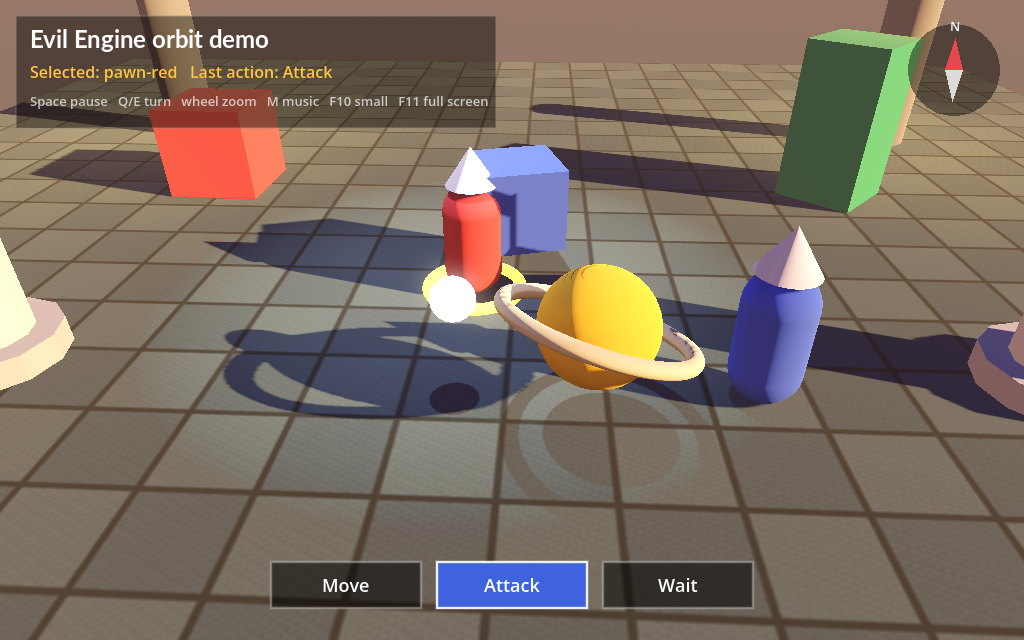
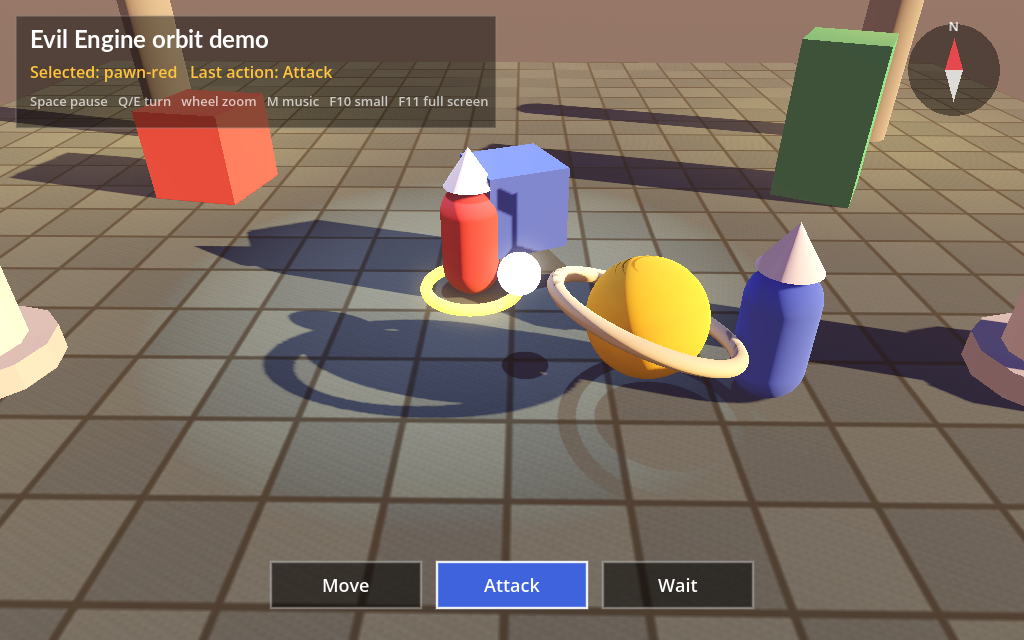
R23: fresh eyes again, all 10 findings fixed: Scenes note, Camera.Frame, one-build style errors with lines

Changed region(s): [[0.0, 0.0, 1.0, 1.0], [0.7812, 0.0312, 0.8125, 0.0938], [0.4688, 0.9375, 0.5, 1.0]]

diff --git a/tests/Evil.Engine.GodotTests/Cameras/FramedBoundsAreFullyInView.cs b/tests/Evil.Engine.GodotTests/Cameras/FramedBoundsAreFullyInView.cs
@@ -1,0 +1,45 @@
+using Evil.Engine.Mathematics;
+
+namespace Evil.Engine.GodotTests.Cameras;
+
+internal sealed class FramedBoundsAreFullyInView : Property<FramingProbe>
+{
+    private Stage? _stage;
+
+    public override void Execute()
+    {
+        using Stage stage = Stage.Open();
+        _stage = stage;
+        base.Execute();
+    }
+
+    protected override FramingProbe Generate(Random random)
+    {
+        Vector3 size = new Vector3(Gen.Number(random, 0.2f, 30f), Gen.Number(random, 0f, 10f), Gen.Number(random, 0.2f, 30f));
+        Bounds3 bounds = Bounds3.FromCenter(Gen.Point3(random, 20f), size);
+        return new FramingProbe(bounds, Gen.Number(random, 5f, 85f), Gen.Number(random, -180f, 180f), Gen.Number(random, 30f, 100f), Gen.Chance(random, 0.25));
+    }
+
+    protected override void Verify(FramingProbe sample)
+    {
+        Camera camera = _stage!.AddCamera(new Vector3(0f, 0f, 10f));
+        camera.FieldOfView = sample.FieldOfView;
+        camera.Projection = sample.Orthographic ? CameraProjection.Orthographic : CameraProjection.Perspective;
+        camera.Frame(sample.Bounds, sample.Pitch, sample.Yaw);
+        Check.True(camera.CanSee(sample.Bounds.Center), "the middle is in view");
+        foreach (Vector3 corner in Corners(sample.Bounds))
+        {
+            Check.True(camera.CanSee(corner), $"corner {corner} is in view");
+        }
+
+        camera.Destroy();
+    }
+
+    private static Vector3[] Corners(Bounds3 box) =>
+    [
+        new Vector3(box.Min.X, box.Min.Y, box.Min.Z), new Vector3(box.Max.X, box.Min.Y, box.Min.Z),
+        new Vector3(box.Min.X, box.Max.Y, box.Min.Z), new Vector3(box.Max.X, box.Max.Y, box.Min.Z),
+        new Vector3(box.Min.X, box.Min.Y, box.Max.Z), new Vector3(box.Max.X, box.Min.Y, box.Max.Z),
+        new Vector3(box.Min.X, box.Max.Y, box.Max.Z), new Vector3(box.Max.X, box.Max.Y, box.Max.Z),
+    ];
+}

diff --git a/src/04_Cameras/Evil.Engine.Cameras/Camera.cs b/src/04_Cameras/Evil.Engine.Cameras/Camera.cs
@@ -9,6 +9,8 @@ namespace Evil.Engine.Cameras;
 
 public class Camera : WorldObject
 {
+    private const float BreathingRoom = 1.05f;
+
     public Camera()
         : base(new Camera3D())
     {
@@ -77,7 +79,39 @@ public class Camera : WorldObject
         return !Lens.IsPositionBehind(point) && Lens.IsPositionInFrustum(point);
     }
 
+    public void Frame(Bounds3 bounds, float pitchDegrees = 50f, float yawDegrees = 0f)
+    {
+        RequireInWorld(nameof(Frame));
+        float radius = MathF.Max(bounds.Size.Length() / 2f, 0.01f) * BreathingRoom;
+        Pose eye = Orbit.PoseFor(bounds.Center, yawDegrees, pitchDegrees, DistanceToFit(radius));
+        Position = Parent is null ? eye.Position : Parent.ToLocal(eye.Position);
+        LookAt(bounds.Center);
+        Far = MathF.Max(Far, Vector3.Distance(eye.Position, bounds.Center) + radius * 2f);
+        if (Projection == CameraProjection.Orthographic)
+        {
+            OrthographicSize = radius * 2f * MathF.Max(1f, 1f / ScreenAspect());
+        }
+    }
+
     internal void MakeCurrent() => Lens.Current = true;
+
+    private float DistanceToFit(float radius)
+    {
+        if (Projection == CameraProjection.Orthographic)
+        {
+            return radius + Near + 1f;
+        }
+
+        float verticalHalf = Angle.ToRadians(FieldOfView) / 2f;
+        float horizontalHalf = MathF.Atan(MathF.Tan(verticalHalf) * ScreenAspect());
+        return radius / MathF.Sin(MathF.Min(verticalHalf, horizontalHalf)) + Near;
+    }
+
+    private float ScreenAspect()
+    {
+        Godot.Vector2 screen = Lens.GetViewport().GetVisibleRect().Size;
+        return screen.X / MathF.Max(1f, screen.Y);
+    }
 
     private void RequireInWorld(string call)
     {

diff --git a/tests/Evil.Engine.Tests/Mathematics/Grids/EveryCellSitsInsideTheBoardBounds.cs b/tests/Evil.Engine.Tests/Mathematics/Grids/EveryCellSitsInsideTheBoardBounds.cs
@@ -1,0 +1,20 @@
+using Evil.Engine.Mathematics;
+
+namespace Evil.Engine.Tests.Mathematics.Grids;
+
+internal sealed class EveryCellSitsInsideTheBoardBounds : Property<GridCell>
+{
+    protected override GridCell Generate(Random random)
+    {
+        Grid grid = RandomGrids.Create(random);
+        return new GridCell(grid, RandomGrids.CellOf(random, grid));
+    }
+
+    protected override void Verify(GridCell sample)
+    {
+        Bounds3 bounds = sample.Grid.Bounds;
+        Check.True(bounds.Contains(sample.Grid.CenterOf(sample.Cell)), $"{sample.Cell} is inside {bounds}");
+        Check.Near(sample.Grid.Columns * sample.Grid.CellSize, bounds.Size.X, "as wide as the columns", 1e-3f);
+        Check.Near(sample.Grid.Rows * sample.Grid.CellSize, bounds.Size.Z, "as deep as the rows", 1e-3f);
+    }
+}

diff --git a/src/99_Engine/Evil.Engine/Hosting/GameMain.cs b/src/99_Engine/Evil.Engine/Hosting/GameMain.cs
@@ -52,9 +52,9 @@ public abstract partial class GameMain : Node, IOverlayPainter
         _game = new GameContext(worlds, _keyboard, _mouse, new Display(_options.Window, GetTree().Root), new ContentLibrary(_options.ContentRoot), new AudioMixer(audio));
         _game.ScreenSize = ScreenSize();
         RenderingServer.FramePostDraw += OnFrameDrawn;
+        AnnounceStart(_options);
         _game.Scenes.Push(_options.StartScene);
         _game.Scenes.ApplyChanges();
-        AnnounceStart(_options);
     }
 
     private static void AnnounceStart(GameOptions options)

diff --git a/src/01_Mathematics/Evil.Engine.Mathematics/Grids/Grid.cs b/src/01_Mathematics/Evil.Engine.Mathematics/Grids/Grid.cs
@@ -33,6 +33,8 @@ public sealed class Grid
 
     public GridMoves Moves { get; }
 
+    public Bounds3 Bounds => new Bounds3(Corner, Corner + new Vector3(Columns * CellSize, 0f, Rows * CellSize));
+
     public override string ToString() => $"{Columns}x{Rows} grid of {CellSize} cells at {Corner}, {Moves} moves";
 
     public static Grid Centered(int columns, int rows, float cellSize, GridMoves moves = GridMoves.Four) =>

diff --git a/tests/Evil.Engine.GodotTests/Cameras/FramingProbe.cs b/tests/Evil.Engine.GodotTests/Cameras/FramingProbe.cs
@@ -1,0 +1,5 @@
+using Evil.Engine.Mathematics;
+
+namespace Evil.Engine.GodotTests.Cameras;
+
+internal sealed record FramingProbe(Bounds3 Bounds, float Pitch, float Yaw, float FieldOfView, bool Orthographic);

diff --git a/templates/Evil.Engine.Templates/evil-game/GlobalUsings.cs b/templates/Evil.Engine.Templates/evil-game/GlobalUsings.cs
@@ -1,5 +1,5 @@
+global using System;
 global using System.Collections.Generic;
-global using System.Linq;
 global using System.Numerics;
 global using Evil.Engine.Audio;
 global using Evil.Engine.Cameras;

diff --git a/documents/API/Scenes.md b/documents/API/Scenes.md
@@ -1,0 +1,72 @@
+---
+tags: [api, scenes, game]
+aliases: [Scene, GameContext, Game, Scene stack]
+---
+
+# Scenes
+
+Library `Evil.Engine` (`src/99_Engine`, folders `Scenes/` and `Hosting/`). A game is a stack of scenes. Each scene
+owns its own `World`, `Camera` and `Atmosphere`, and reaches the rest of the engine through `Game`.
+
+## A scene's life
+
+| Override | Called |
+|---|---|
+| `Enter()` | once, when the scene comes onto the stack: build the world here |
+| `Update(GameTime time)` | every frame while it is the top scene; `time.DeltaSeconds` is the frame, `TotalSeconds` the game so far |
+| `Draw(Canvas canvas)` | every frame after the updates: the 2D overlay (see [[Screen]]) |
+| `Pause()`, `Resume()` | a full scene was pushed on top of it, and popped off again |
+| `Exit()` | once, when it leaves the stack; its world is freed after this |
+
+`IsOverlay => true` makes a scene a layer on top: the scene below keeps being shown and its camera stays on screen
+(a menu over the battle). A full scene hides the one below and pauses it.
+
+## What a scene can use
+
+| Member | What |
+|---|---|
+| `Game` | the game: see the next table |
+| `World` | the scene's own `WorldObject`: `World.Add(...)` puts things in it (see [[World]]) |
+| `Camera` | the scene's camera, already in its world and on screen (see [[Cameras]]) |
+| `Atmosphere` | the scene's sky, ambient light and fog (see [[Lighting]]) |
+| `Pick(screenPoint)` | the nearest world object under a pixel (see [[Input]]) |
+
+These are `protected`: they belong to the scene. They throw a clear error when used before `Enter` or after
+`Exit`, because then the scene has no world.
+
+## `Game`: the game context
+
+| Member | What |
+|---|---|
+| `Keyboard`, `Mouse` | input, read in `Update` (see [[Input]]) |
+| `Motion` | moves, hops and turns, queued per object (see [[Motion]]) |
+| `Audio` | sounds, music and volume groups (see [[Audio]]) |
+| `Content` | models, textures, fonts and sounds from the content folder (see [[Content]]) |
+| `Display` | window title, size, full screen (see [[Screen]]) |
+| `Scenes` | the stack: `Push(scene)`, `Pop()`, `Switch(scene)`, `Current`; changes happen after the frame's updates |
+| `Time`, `ScreenSize` | this frame's time and the screen size in pixels |
+| `Exit()` | quit after this frame; `CaptureFrame(path)` saves the next frame as a picture |
+
+## Helper classes
+
+Split a scene into classes with one job each, and hand them what they need when the scene builds them in
+`Enter`: a game piece gets `World`, a rules class gets `Game.Motion`, a click handler gets `Camera` and `World`.
+
+```csharp
+protected override void Enter()
+{
+    _board = new BoardView(World, Grid.Centered(8, 8, 1f));
+    _turns = new TurnOrder(Game.Motion);
+    _clicks = new ClickReader(Camera, World);
+    Camera.Frame(_board.Grid.Bounds, 55f);
+}
+```
+
+A helper that picks without the scene's `Pick` uses `Picker.Pick(camera, world, screenPoint)`, which is what `Pick`
+calls. The demo is split this way: see "Read the code" in [[Run the Sample]].
+
+## Logging
+
+`Console.WriteLine` is the log: on the server it lands in the file `godot.sh`'s output goes to, on a desktop in
+Godot's output panel. The engine writes one line itself, before the first scene enters:
+`Evil Engine 0.3.0: "My Game" 1280x720, first scene MapScene, content res://content`.

diff --git a/documents/Getting Started/Make a Game.md b/documents/Getting Started/Make a Game.md
@@ -22,7 +22,9 @@ Godot 4.7.2 .NET. One command makes it.
    dotnet new evil-game -n Skirmish --title "Tile Skirmish"
    ```
 
-   `--feed` points at another package folder or NuGet source if the engine's packages live elsewhere.
+   `--feed` points at another package folder or NuGet source if the engine's packages live elsewhere. With a folder
+   feed, add `--no-update-check`: there is no online version to compare with. To call the first scene something else,
+   rename `MapScene.cs` and its class, and the `new MapScene()` in `Main.cs`.
 
 3. **Run it.** On a desktop, open the folder in Godot 4.7.2 (.NET) and press play. On the server, with the engine
    repo's script (a game folder has no `scripts/`):
@@ -34,9 +36,9 @@ Godot 4.7.2 .NET. One command makes it.
    bash /mnt/hdd/projects/MyGameFrameWork/scripts/godot.sh .
    ```
 
-   The first line the game prints says it started, for example
+   The first line the game prints says it started, before the first scene enters, for example
    `Evil Engine 0.3.0: "Tile Skirmish" 1280x720, first scene MapScene, content res://content`. No line means the
-   engine never got to its first scene. The import is needed once, and again after new content. To take screenshots
+   engine never started. The import is needed once, and again after new content. To take screenshots
    or click with `xdotool`, see "Driving a game on the server" in [[Testing]].
 
 **Done when** a window shows a turning blue box on a green floor with the title in the corner, and Escape closes
@@ -50,9 +52,9 @@ it.
 |---|---|
 | `Main.cs` | the game's one Godot line: window, content folder, first scene |
 | `MapScene.cs` | the first scene: a floor, a turning box, the title, Escape quits |
-| `GlobalUsings.cs` | every Evil Engine namespace, so no file needs its own usings |
+| `GlobalUsings.cs` | `System`, collections, `System.Numerics` and every Evil Engine namespace, so no file needs its own usings |
 | `<name>.csproj` | Godot's SDK, the `Evil.Engine` package, warnings as errors, the code style in the build |
-| `CodeStyle.targets` | stops the build on `new()` and on `{ Name = ... }` blocks, and says what to write instead |
+| `CodeStyle.targets` | stops the build on `new()` (EVIL001) and on `{ Name = ... }` blocks (EVIL002), with file, line and what to write instead, all in one build |
 | `.editorconfig` | stops the build on `var` |
 | `project.godot`, `main.tscn`, `nuget.config`, `.gitignore` | the Godot project, its one scene, where the packages come from, what git skips |
 
@@ -127,7 +129,8 @@ off ([[Decisions]] 24).
 > [!important] The code style is part of the game
 > A game made this way builds only in the project's code style: real types instead of `var` (the compiler's
 > IDE0008), and objects built with their constructor and then plain statements: no `new()` and no initializer
-> blocks (`CodeStyle.targets`). The error says which file and what to write instead.
+> blocks (`CodeStyle.targets`). One build lists every problem with its file and line and what to write instead.
+> The rest of the house style is in [[Clean Code]].
 
 `scripts/make-a-game-check.sh` runs exactly these steps after every pack (see [[Testing]]), and `check.sh` fails if
 this note stops showing the template's files as they are.

diff --git a/documents/Usability.md b/documents/Usability.md
@@ -42,3 +42,31 @@ Fixed in R21: `SelfOrAncestor<T>()`.
 
 The three changes it said would have helped most: document capture and scripted input on the server (1, 2, 3, 12),
 ship the style checks with the package (5), and make Make a Game complete plus a board recipe (4, 6 to 10).
+
+## R23: fresh eyes again (2026-11-09)
+
+A new agent, the same task, the docs and packages after rounds 14 to 22 (a trial pack of `main`, the earlier
+findings hidden from it). It used `dotnet new evil-game`, `Grid.Path`, `Grid.CellAt` with `Camera.PointOnGround`,
+and `SelfOrAncestor<Unit>()`, and said those "worked without friction". The game meets every bullet.
+
+| | R13 | R23 |
+|---|---|---|
+| findings | 13 (3 major, 9 minor, 1 own mistake) | 10 (0 major, 10 minor) |
+| blockers | 0 | 0 |
+| builds (failed) | 5 (1) | 7 (1) |
+| board code written by hand | about 100 lines: cells, cell to world, tiles, a path search | `Board.cs` 69 lines, tiles only; paths from `Grid` |
+
+![[r23-fresh-eyes.png]]
+
+| # | Finding | Severity | Fix | Status |
+|---|---|---|---|---|
+| 1 | The template's usings had no `System`, so `Console` did not build | minor | `global using System;`; `System.Linq` taken out (the house style avoids LINQ) | fixed in R23 |
+| 2 | `Unshaded` still went through tone mapping, so tiles came out lighter | minor | [[World]] and [[Lighting]] say so and point to `ToneMapping.Linear` | fixed in R23 |
+| 3 | No page for `Scene` and `Game`: the life of a scene, `GameContext`, helper classes, `Picker` | minor | new note [[Scenes]] | fixed in R23 |
+| 4 | Which style rules a game gets was unclear; the long-method limit was not given | minor | [[Clean Code]]: "In a game" and the 30-line rule | fixed in R23 |
+| 5 | The template's style errors came one per build and without a line | minor | `CodeStyle.targets` is a small task now: every problem with file and line in one build, next to the compiler's | fixed in R23 |
+| 6 | No recipe for finding things on screen when driving a game; logging not documented | minor | [[Testing]] (print `WorldToScreen` positions, read them from the log) and [[Scenes]] (logging) | fixed in R23 |
+| 7 | "The first line the game prints" was not first: the scene's own lines came before it | minor | the engine prints it before the first scene enters | fixed in R23 |
+| 8 | Whether a new shape shares its material was a guess | minor | [[World]]: each shape gets its own unless you share one | fixed in R23 |
+| 9 | Three tries to frame the board; the default view angle was not given | minor | `Camera.Frame(bounds, pitch, yaw)` and `Grid.Bounds`, proven by a property test; defaults in [[Cameras]] | fixed in R23 |
+| 10 | `dotnet new` warned about an update check; renaming the first scene was not described | minor | [[Make a Game]]: `--no-update-check` for a folder feed, and how to rename `MapScene` | fixed in R23 |

diff --git a/documents/LOOP.md b/documents/LOOP.md
@@ -113,7 +113,7 @@ types, and repeated code in Keyboard/Mouse, ContentLibrary's loaders, GodotKeys'
   messages that say what to do. Each change with a test.
 - [x] **R22 A new game in one command**: `dotnet new evil-game` template package in the feed that writes the Make a
   Game files plus the code style checks (`.editorconfig`, `EnforceCodeStyleInBuild`); make-a-game-check builds from it.
-- [ ] **R23 Fresh eyes again**: a new agent, same task as R13; compare (stuck N times before, M now) and fix what is
+- [x] **R23 Fresh eyes again**: a new agent, same task as R13; compare (stuck N times before, M now) and fix what is
   left.
 - [ ] **R24 Docs and pack 0.3.0**: API notes and Decisions for every change, `0.3.0` packed, make-a-game-check on the
   feed and checking the new start line.
@@ -310,3 +310,15 @@ types, and repeated code in Keyboard/Mouse, ContentLibrary's loaders, GodotKeys'
   files and check.sh fails when they drift (a planted change was caught). Found: the template engine treats MSBuild
   `Condition` attributes as its own and stripped one, so every new game failed its style check; the file is
   copy-only now. pack.sh died silently on an `ls` exit code under pipefail; fixed. ![[make-a-game.png]]
+- 2026-11-09 01:23 R23: a new Sonnet agent, the same task as R13, a trial pack of `main` (old packages cleared from the
+  NuGet cache, the earlier findings hidden). It used `dotnet new evil-game`, `Grid.Path`, `CellAt` with
+  `PointOnGround` and `SelfOrAncestor<Unit>()` "without friction"; every bullet met. R13: 13 findings, 3 major, about
+  100 lines of hand-made board code. R23: 10 findings, 0 major, the board 69 lines with paths from `Grid`. All 10
+  fixed: `System` in the template's usings (and `System.Linq` out); a new [[Scenes]] note (life of a scene,
+  `GameContext`, helper classes, logging); the truth about `Unshaded` and tone mapping; material ownership and camera
+  defaults written down; a recipe for screen positions in scripted runs; the clean-code rules for games and the
+  30-line limit; the start line printed before the first scene; `CodeStyle.targets` as a small task that lists every
+  problem with file and line in one build (EVIL001, EVIL002, next to the compiler's IDE0008: the Make a Game check
+  plants all three in one file and needs each at its line); `Camera.Frame(bounds, pitch, yaw)` and `Grid.Bounds`,
+  proven by a Godot property test that every corner of 2,000 random boxes is in view (a planted too-close camera
+  fails on case 1). 92 + 113 tests, check.sh, the driven run and make-a-game-check green. ![[r23-fresh-eyes.png]]

diff --git a/documents/Architecture/Clean Code.md b/documents/Architecture/Clean Code.md
@@ -18,6 +18,7 @@ duplicate code; a file needs meaning, not just code here or there, and folders n
 | no delegates handed around | `Func<Random, T> generate, Action<T> check` | an abstract `Property<TCase>` with `Generate` and `Verify` |
 | no duplicate code | the same 8 lines in Keyboard and Mouse | one `ButtonStates<T>` both use |
 | one type per file | `ObjectTweens.cs` with 8 classes | `MoveTween.cs`, `HopTween.cs`, ... in `Tweens/` |
+| short methods | a 48-line game loop | named steps; a method may be 30 lines at most, from its first line to its closing brace |
 | folders with meaning | 25 files side by side in `Evil.Engine.World` | `Objects/`, `Shapes/`, `Materials/`, `Models/` |
 
 What the duplicate check does not count, because it is declaration or data, not copied logic: enum lists, one-line
@@ -37,6 +38,13 @@ call it expects to fail. Every caller hands it a named method, which the lambda 
 Explicit types, constructor then statements and no comments still hold (see the repo's `CLAUDE.md`).
 Expression-bodied members (`public float Area => Width * Height;`) and switch expressions over enums are C#, not
 lambdas, and stay.
+
+## In a game
+
+A game made with `dotnet new evil-game` gets the same rules. Its build enforces three of them (no `var`, no
+`new()`, no initializer blocks: see [[Make a Game]]); the rest (classes over lambdas and LINQ, named types over
+tuples, no duplicates, one type per file, short methods, folders with meaning) are the house style its author keeps,
+because `scripts/clean-code-check.py` only runs in this repo.
 
 ## The check
 
